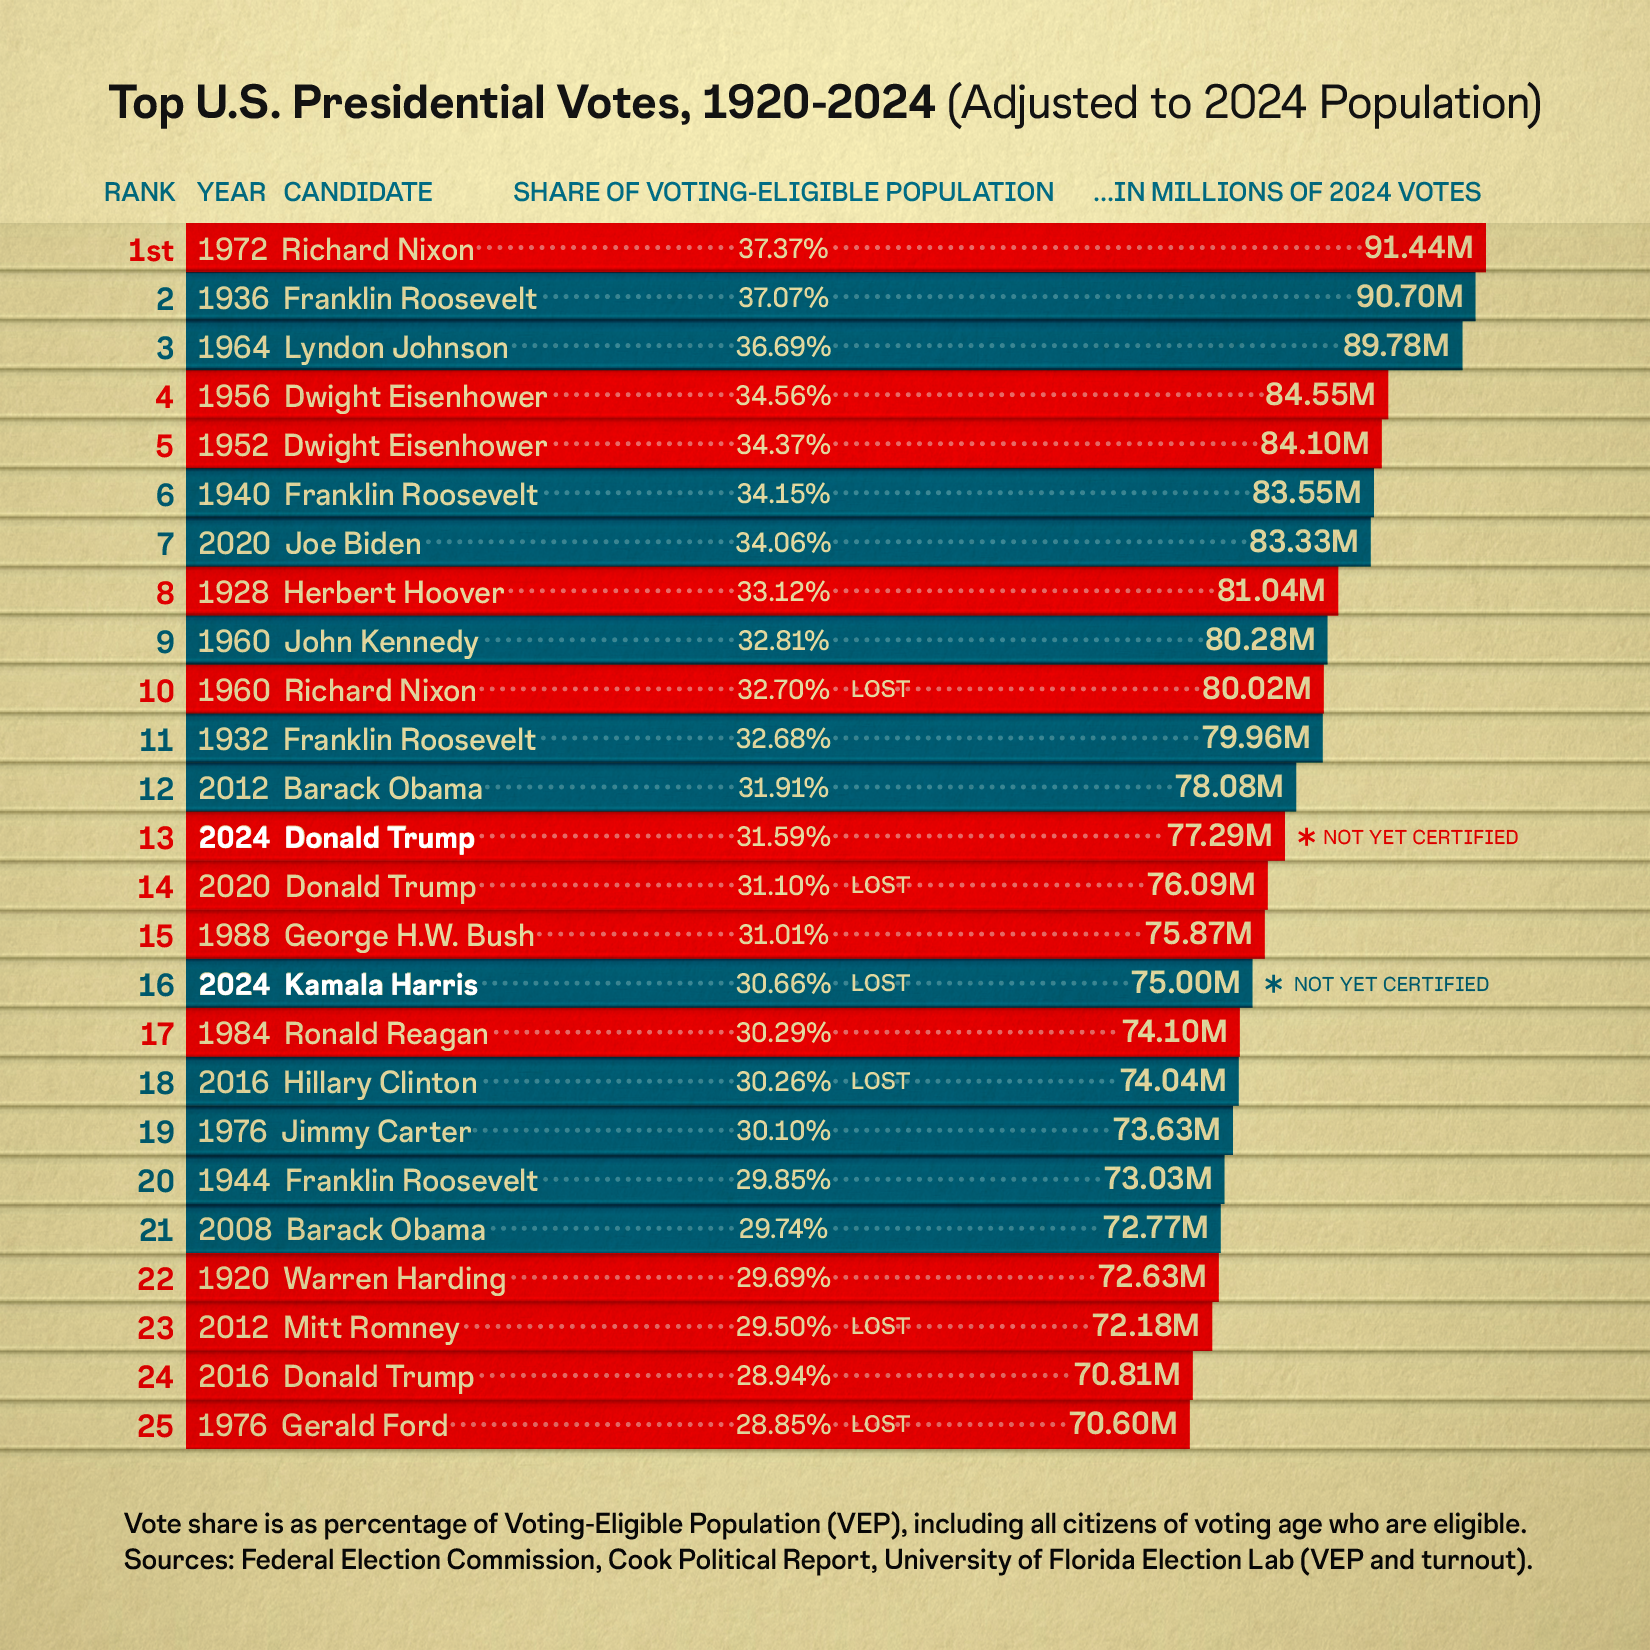
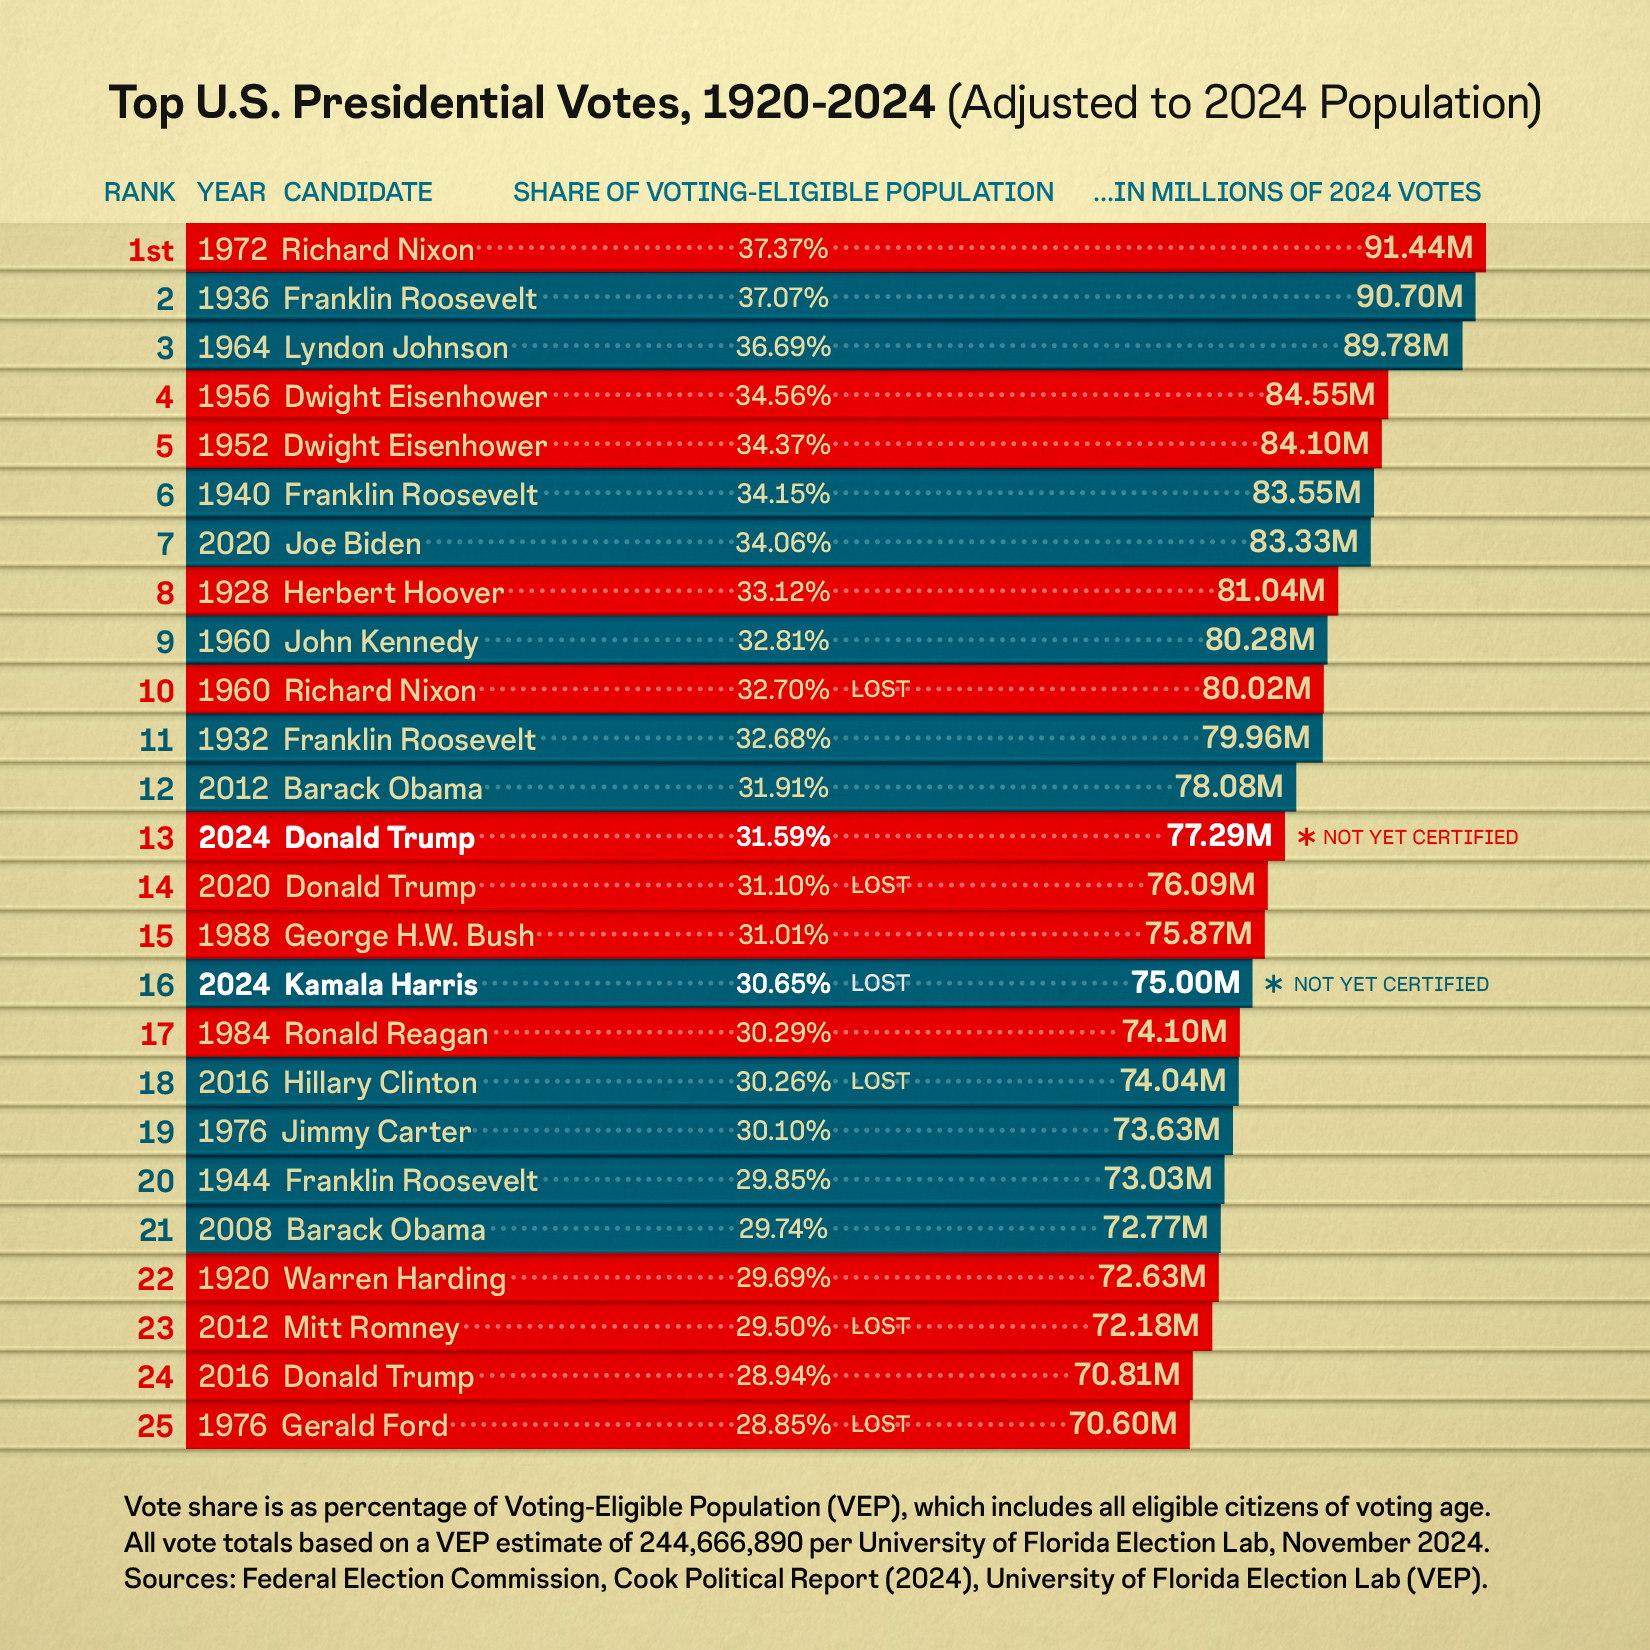
updates

diff --git a/README.md b/README.md
@@ -1,7 +1,6 @@
-# mostest
-Most Votes for U.S. Presidential Candidates, 1920-2024, Adjusted to 2024 Population
+[OC] Most Votes for U.S. Presidential Candidates, 1920-2024, Adjusted to 2024 Population
 
-This charts the votes cast for U.S. presidential candidates as a share of the voting-eligible population during that election year, and then adjusted to a commensurate share of the voting-eligible population in 2024. 
+If historical elections occurred with a 2024 voting population, these could have been the results. This chart plots the votes cast for U.S. presidential candidates as a share of the voting-eligible population during that election year, and then adjusted to a commensurate share of the voting-eligible population of 2024. 
 
 Election data was aggregated from The Federal Election Commission archives, with corroboration and missing data derived from the American Presidency Project and Wikipedia. A working spreadsheet of the aggregation can be found in the links below. 
 
@@ -23,7 +22,17 @@ Worksheet of aggregated data:
 
 [https://docs.google.com/spreadsheets](https://docs.google.com/spreadsheets/d/1DSylwUb68x23Bn4Rl2iEis8sU_X9bRuSPe_Ta1-gNMQ/edit?usp=sharing)
 
+R code:
+
+[https://github.com/ptrdo/mostest](https://github.com/ptrdo/mostest)
+
 Final data:
+
+2024 Results per Cook Political Report (Thu, 05 Dec 2024 13:31:00 GMT)
+-  77,287,591 Donald Trump
+-  75,002,294 Kamala Harris
+-   2,946,201 Other
+- 155,236,086 Total
 
 Adjustment to 2024 population is a product of VEP_SHARE and 244,666,890 (2024 Voting-Eligible Population as estimated by University of Florida Election Lab). VEP_SHARE of 2024 candidates result from current vote counts as a proportion of VEP. 
 
@@ -41,10 +50,10 @@ Adjustment to 2024 population is a product of VEP_SHARE and 244,666,890 (2024 Vo
 |1960|0.3270459|0  |R    |Richard Nixon     |
 |1932|0.3267990|1  |D    |Franklin Roosevelt|
 |2012|0.3191482|1  |D    |Barack Obama      |
-|2024|0.3159000|1  |R    |Donald Trump      |
+|2024|0.3158890|1  |R    |Donald Trump      |
 |2020|0.3109890|0  |R    |Donald Trump      |
 |1988|0.3100921|1  |R    |George H.W. Bush  |
-|2024|0.3065500|0  |D    |Kamala Harris     |
+|2024|0.3065486|0  |D    |Kamala Harris     |
 |1984|0.3028770|1  |R    |Ronald Reagan     |
 |2016|0.3025992|0  |D    |Hillary Clinton   |
 |1976|0.3009532|1  |D    |Jimmy Carter      |
